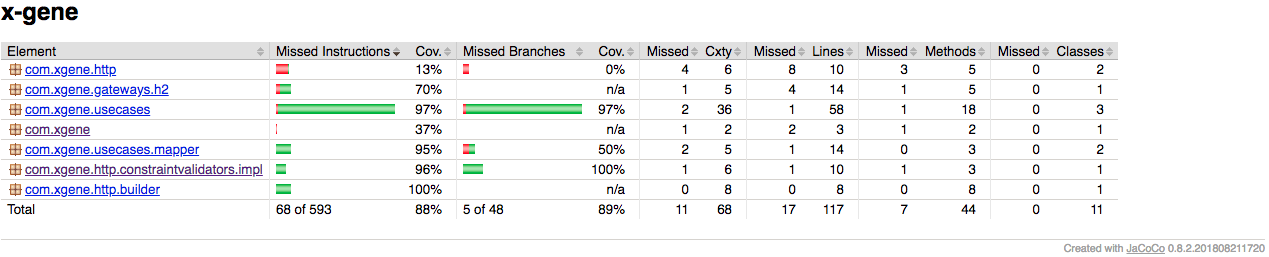
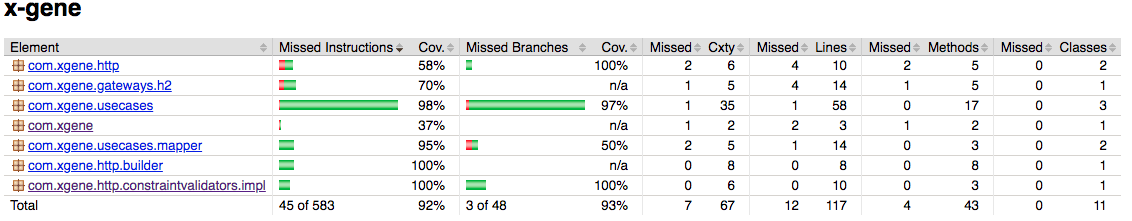
Increase tests

diff --git a/src/test/java/com/xgene/http/MutantDNAControllerUnitTest.java b/src/test/java/com/xgene/http/MutantDNAControllerUnitTest.java
@@ -1,0 +1,87 @@
+package com.xgene.http;
+
+import br.com.six2six.fixturefactory.Fixture;
+import br.com.six2six.fixturefactory.loader.FixtureFactoryLoader;
+import com.xgene.JsonConverter;
+import com.xgene.domains.Human;
+import com.xgene.http.builder.HumanCommandBuilder;
+import com.xgene.http.json.DnaJsonRequest;
+import com.xgene.usecases.CreateHuman;
+import org.junit.Before;
+import org.junit.BeforeClass;
+import org.junit.Test;
+import org.junit.runner.RunWith;
+import org.mockito.Mockito;
+import org.springframework.beans.factory.annotation.Autowired;
+import org.springframework.boot.test.autoconfigure.web.servlet.WebMvcTest;
+import org.springframework.boot.test.mock.mockito.MockBean;
+import org.springframework.http.MediaType;
+import org.springframework.test.context.ContextConfiguration;
+import org.springframework.test.context.junit4.SpringRunner;
+import org.springframework.test.web.servlet.MockMvc;
+import org.springframework.test.web.servlet.ResultActions;
+import org.springframework.test.web.servlet.request.MockHttpServletRequestBuilder;
+
+import static org.mockito.ArgumentMatchers.any;
+import static org.springframework.test.web.servlet.request.MockMvcRequestBuilders.post;
+import static org.springframework.test.web.servlet.result.MockMvcResultMatchers.status;
+
+@RunWith(SpringRunner.class)
+@WebMvcTest
+@ContextConfiguration(classes = { MutantDNAController.class})
+public class MutantDNAControllerUnitTest {
+    private static final String URL_TEMPLATE = "/mutant";
+
+    @Autowired
+    private MockMvc mockMvc;
+
+    @MockBean
+    private CreateHuman createHuman;
+
+    @BeforeClass
+    public static void setUpBeforeClass() {
+        FixtureFactoryLoader.loadTemplates("com.xgene.gateways.h2.databuilders.domains.templates");
+    }
+
+    @Before
+    public void setUp() {
+
+    }
+
+    @Test
+    public void shouldGetNewHumanSuccessfully() throws Exception {
+        // Given
+        final DnaJsonRequest dnaJsonRequest = Fixture.from(DnaJsonRequest.class).gimme("ANY_REQUEST");
+        final Human newHuman = Fixture.from(Human.class).gimme("ANY_MUTANT");
+        Mockito.when(createHuman.create(any(HumanCommandBuilder.class))).thenReturn(newHuman);
+
+        // When
+        ResultActions resultActions = mockMvcPerform(dnaJsonRequest);
+
+        // Then
+        resultActions.andExpect(status().isNoContent());
+    }
+
+    @Test
+    public void shouldGetForbiden() throws Exception {
+        // Given
+        final DnaJsonRequest dnaJsonRequest = Fixture.from(DnaJsonRequest.class).gimme("WRONG_REQUEST");
+        final Human newHuman = Fixture.from(Human.class).gimme("ANY_HUMAN");
+        Mockito.when(createHuman.create(any(HumanCommandBuilder.class))).thenReturn(newHuman);
+        // When
+        ResultActions resultActions = mockMvcPerform(dnaJsonRequest);
+
+        // Then
+        resultActions.andExpect(status().isForbidden());
+    }
+
+    private ResultActions mockMvcPerform(final DnaJsonRequest json) throws Exception {
+        final MockHttpServletRequestBuilder builder = post(URL_TEMPLATE) //
+                .accept(MediaType.APPLICATION_JSON) //
+                .contentType(MediaType.APPLICATION_JSON) //
+                .content(JsonConverter.toString(json));
+
+        return mockMvc.perform(builder);
+    }
+
+}

diff --git a/src/main/java/com/xgene/usecases/SearchTrees.java b/src/main/java/com/xgene/usecases/SearchTrees.java
@@ -6,28 +6,22 @@ import org.springframework.stereotype.Service;
 @Service
 @Slf4j
 public class SearchTrees {
+    private static final int[] DIRECTIONS_X = new int[] { 0, 0, 1, -1, 1, 1, -1, -1 };
+    private static final int[] DIRECTIONS_Y = new int[] { 1, -1, 0, 0, 1, -1, 1, -1 };
+
+    private int N = 6;
     private char[][] grid;
 
-    private void initializePuzzle(String[] dna) {
-        puzzle = getGrid(dna);
-    }
-
     public boolean contains(String[] dna, String word) {
-        initializePuzzle(dna);
+        getGrid(dna);
 
         return findWord(word);
     }
 
-    private static final int[] DIRECTIONS_X = new int[] { 0, 0, 1, -1, 1, 1, -1, -1 };
-    private static final int[] DIRECTIONS_Y = new int[] { 1, -1, 0, 0, 1, -1, 1, -1 };
-
-    private static int N = 6;
-    private static char[][] puzzle;
-
-    private static boolean findWord(String word) {
+    private boolean findWord(String word) {
         for (int i = 0; i < N; ++i) {
             for (int j = 0; j < N; ++j) {
-                if (puzzle[i][j] == word.charAt(0)) {
+                if (grid[i][j] == word.charAt(0)) {
                     if (checkDirections(i, j, word)) {
                         return true;
                     }
@@ -38,8 +32,8 @@ public class SearchTrees {
         return false;
     }
 
-    public static char[][] getGrid(String[] dna) {
-        char[][] grid = new char[6][6];
+    public char[][] getGrid(String[] dna) {
+        grid = new char[6][6];
         for (int i = 0; i < grid.length; i++) {
             for (int j = 0; j < grid[i].length; j++) {
                 grid[i][j] = dna[i].charAt(j);
@@ -48,13 +42,13 @@ public class SearchTrees {
         return grid;
     }
 
-    private static boolean checkDirections(int initX, int initY, String word) {
+    private boolean checkDirections(int initX, int initY, String word) {
         for (int dirIndex = 0; dirIndex < DIRECTIONS_X.length; ++dirIndex) {
             boolean wordMatches = true;
             for (int charIndex = 0; charIndex < word.length() && wordMatches; ++charIndex) {
                 int x = initX + DIRECTIONS_X[dirIndex] * charIndex;
                 int y = initY + DIRECTIONS_Y[dirIndex] * charIndex;
-                if (x < 0 || y < 0 || x >= N || y >= N || puzzle[x][y] != word.charAt(charIndex)) {
+                if (x < 0 || y < 0 || x >= N || y >= N || grid[x][y] != word.charAt(charIndex)) {
                     wordMatches = false;
                 }
             }

diff --git a/src/test/java/com/xgene/gateways/h2/databuilders/domains/templates/HumanTemplate.java b/src/test/java/com/xgene/gateways/h2/databuilders/domains/templates/HumanTemplate.java
@@ -7,13 +7,20 @@ import com.xgene.domains.Human;
 
 public class HumanTemplate implements TemplateLoader {
     protected static final String ANY_HUMAN = "ANY_HUMAN";
+    protected static final String ANY_MUTANT = "ANY_MUTANT";
 
     @Override public void load() {
-        Fixture.of(Human.class).addTemplate(ANY_HUMAN, new Rule() {{
+        Fixture.of(Human.class).addTemplate(ANY_MUTANT, new Rule() {{
             add("human_id", 1);
             add("name", random("Jean Grey", "Scott Summers", "Warren Worthington"));
             add("mutant", true);
             add("dna", new String[]{"ATGCGA","CAGTGC","TTATGT","AGAAGG","CCCCTA","TCACTG"});
+        }});
+        Fixture.of(Human.class).addTemplate(ANY_HUMAN, new Rule() {{
+            add("human_id", 2);
+            add("name", random("Nick", "Rob", "Jack"));
+            add("mutant", false);
+            add("dna", new String[]{"ATGCGA","CCGTGC","TTATAT","AGAAGG","CACCTA","TCACTG"});
         }});
     }
 }

diff --git a/src/test/java/com/xgene/gateways/h2/GeneXDatabaseGatewayH2ImplUnitTest.java b/src/test/java/com/xgene/gateways/h2/GeneXDatabaseGatewayH2ImplUnitTest.java
@@ -40,7 +40,7 @@ public class GeneXDatabaseGatewayH2ImplUnitTest {
 
     @Test
     public void shouldSaveWithSuccess() {
-        final Human human = Fixture.from(Human.class).gimme("ANY_HUMAN");
+        final Human human = Fixture.from(Human.class).gimme("ANY_MUTANT");
         this.geneXDatabaseGateway.save(human);
 
         ArgumentCaptor<Human> argumentCaptorHuman = ArgumentCaptor.forClass(Human.class);
@@ -56,7 +56,7 @@ public class GeneXDatabaseGatewayH2ImplUnitTest {
 
     @Test(expected= GeneXDatabaseGatewayException.class)
     public void shouldNotSaveWithSuccess() {
-        final Human human = Fixture.from(Human.class).gimme("ANY_HUMAN");
+        final Human human = Fixture.from(Human.class).gimme("ANY_MUTANT");
 
         doThrow(new RuntimeException()).when(repository).save(human);
         try {

diff --git a/src/test/java/com/xgene/gateways/h2/databuilders/domains/templates/DnaJsonRequestTemplate.java b/src/test/java/com/xgene/gateways/h2/databuilders/domains/templates/DnaJsonRequestTemplate.java
@@ -7,10 +7,14 @@ import com.xgene.http.json.DnaJsonRequest;
 
 public class DnaJsonRequestTemplate implements TemplateLoader {
     protected static final String ANY_REQUEST = "ANY_REQUEST";
+    protected static final String WRONG_REQUEST = "WRONG_REQUEST";
 
     @Override public void load() {
         Fixture.of(DnaJsonRequest.class).addTemplate(ANY_REQUEST, new Rule() {{
             add("dna", new String[]{"ATGCGA","CAGTGC","TTATGT","AGAAGG","CCCCTA","TCACTG"});
+        }});
+        Fixture.of(DnaJsonRequest.class).addTemplate(WRONG_REQUEST, new Rule() {{
+            add("dna", new String[]{"ATGCCA","CAGTGC","TTCTGG","AGAAGG","CCCGTA","TCGCTG"});
         }});
     }
 }

diff --git a/src/test/java/com/xgene/usecases/CreateHumanUnitTest.java b/src/test/java/com/xgene/usecases/CreateHumanUnitTest.java
@@ -48,7 +48,7 @@ public class CreateHumanUnitTest {
 
     @Test
     public void createWithSuccess() {
-        final Human newHuman = Fixture.from(Human.class).gimme("ANY_HUMAN");
+        final Human newHuman = Fixture.from(Human.class).gimme("ANY_MUTANT");
         final DnaJsonRequest dnaJsonRequest = Fixture.from(DnaJsonRequest.class).gimme("ANY_REQUEST");
         final HumanCommandBuilder humanCommandBuilder = HumanCommandBuilder.fromRequest(dnaJsonRequest);
         when(this.createHuman.create(humanCommandBuilder)).thenReturn(newHuman);

diff --git a/src/main/java/com/xgene/usecases/DnaStatistic.java b/src/main/java/com/xgene/usecases/DnaStatistic.java
@@ -27,11 +27,11 @@ public class DnaStatistic {
 
     private Statistic buildStatistic(final List<Human> humans) {
         long mutants = humans.stream()
-                .filter(h -> h.isMutant()).count();
+                .filter(Human::isMutant).count();
 
         return new Statistic(
                 (int) mutants,
-                (int) (humans.size()-mutants),
-                (double) (humans.size()-mutants)/mutants);
+                humans.size(),
+                (((double) mutants) / (double) humans.size()));
     }
 }

diff --git a/src/test/java/com/xgene/JsonConverter.java b/src/test/java/com/xgene/JsonConverter.java
@@ -1,0 +1,20 @@
+package com.xgene;
+
+import com.fasterxml.jackson.core.JsonProcessingException;
+import com.fasterxml.jackson.databind.ObjectMapper;
+
+public enum JsonConverter {
+
+    ;
+
+    public static <T> String toString(T object) {
+        final ObjectMapper jsonMapper = new ObjectMapper();
+
+        try {
+            return jsonMapper.writeValueAsString(object);
+        } catch (JsonProcessingException e) {
+            throw new RuntimeException(e);
+        }
+
+    }
+}

diff --git a/src/main/java/com/xgene/http/constraintvalidators/impl/DnaCharValidator.java b/src/main/java/com/xgene/http/constraintvalidators/impl/DnaCharValidator.java
@@ -9,10 +9,6 @@ import java.util.regex.Pattern;
 
 public class DnaCharValidator implements ConstraintValidator<DnaChar, String[]> {
 
-    @Override public void initialize(final DnaChar constraintAnnotation) {
-
-    }
-
     @Override public boolean isValid(final String[] strings, final ConstraintValidatorContext constraintValidatorContext) {
         boolean isValid = false;
         if (StringUtils.isEmpty(strings)) {

diff --git a/src/test/java/com/xgene/gateways/h2/GeneXRepositoryIntTest.java b/src/test/java/com/xgene/gateways/h2/GeneXRepositoryIntTest.java
@@ -28,7 +28,7 @@ public class GeneXRepositoryIntTest {
 
     @Test
     public void saveWithSuccess() {
-        final Human newHuman = Fixture.from(com.xgene.domains.Human.class).gimme("ANY_HUMAN");
+        final Human newHuman = Fixture.from(com.xgene.domains.Human.class).gimme("ANY_MUTANT");
         assertEquals(0, this.geneXRepository.count());
 
         this.geneXRepository.save(newHuman);

diff --git a/README.md b/README.md
@@ -3,7 +3,8 @@
 API para encontrar genes mutantes em uma matrix de DNA
 URL da aplicação no heroku
 ```
-https://floating-sierra-54525.herokuapp.com
+https://floating-sierra-54525.herokuapp.com/mutant
+https://floating-sierra-54525.herokuapp.com/stats
 ```
 
 ## Getting Started
@@ -56,7 +57,7 @@ mvn test
 ### And coding style tests
 
 Testes unitários na camada de negócio e conecxão com banco de dados.
-89% de cobertura desconsiderando classes de domain, json e exception.
+93% de cobertura desconsiderando classes de domain, json e exception.
 
 ![coverage](./extras/coverage.png)
 
